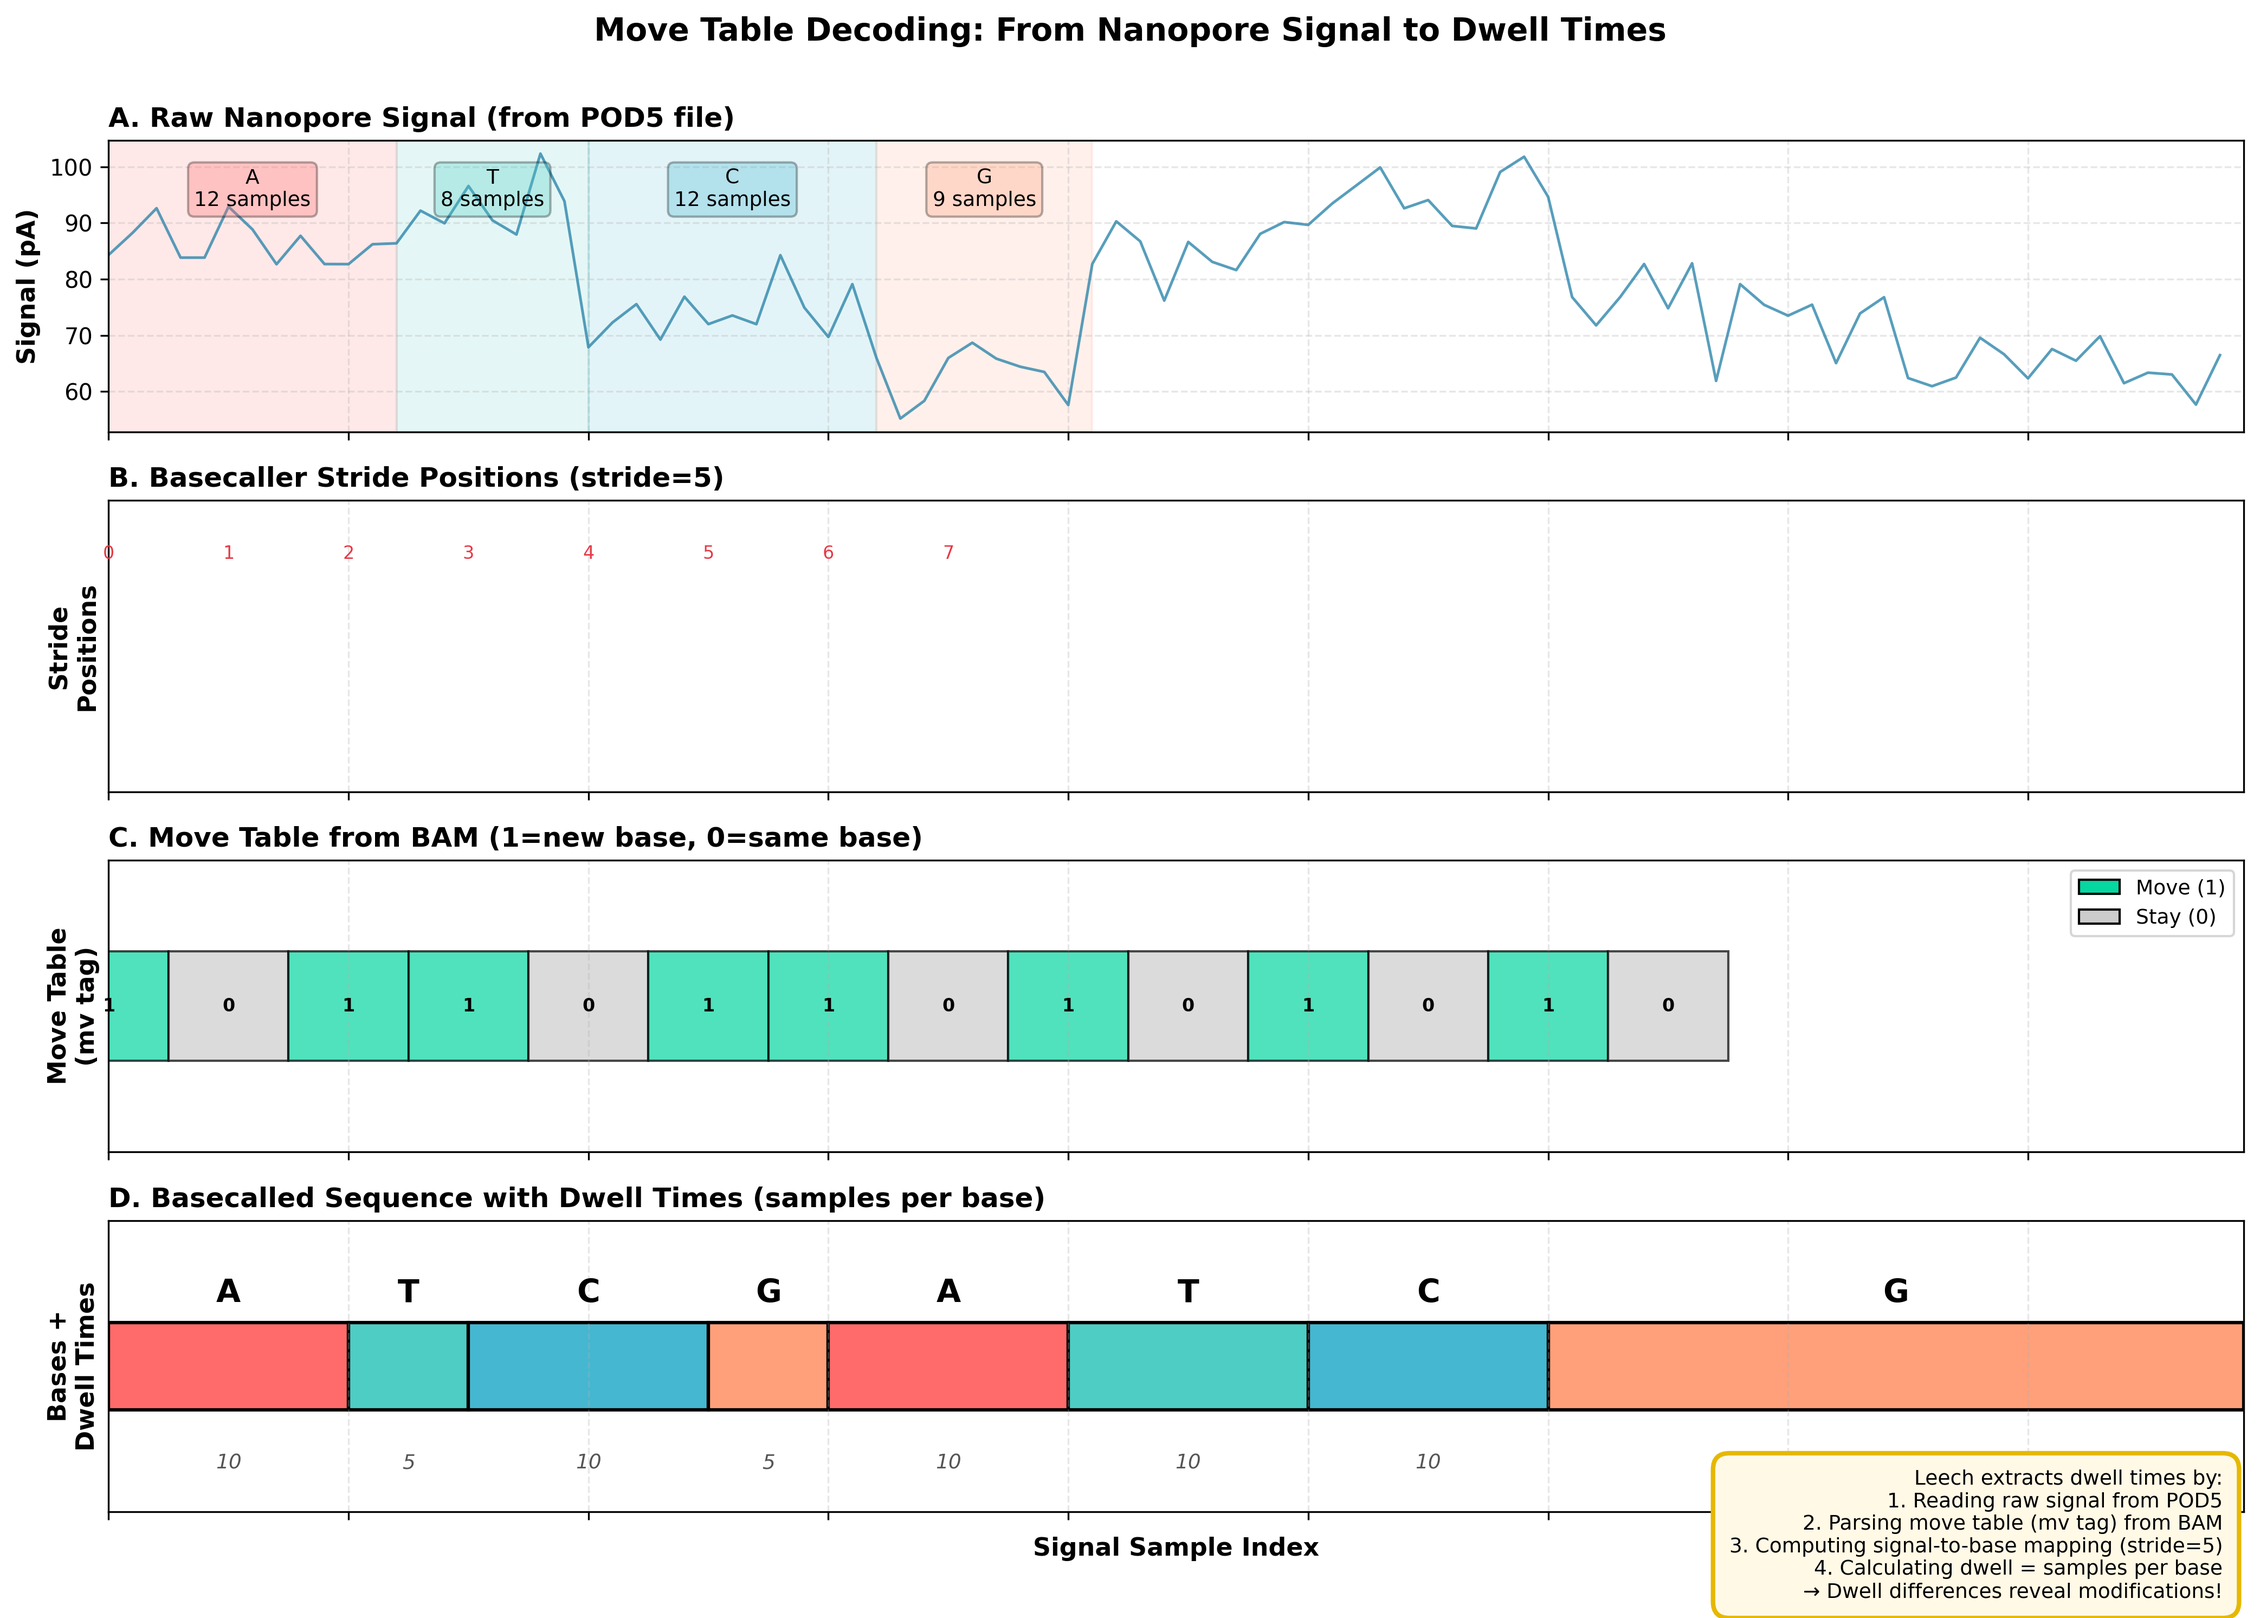
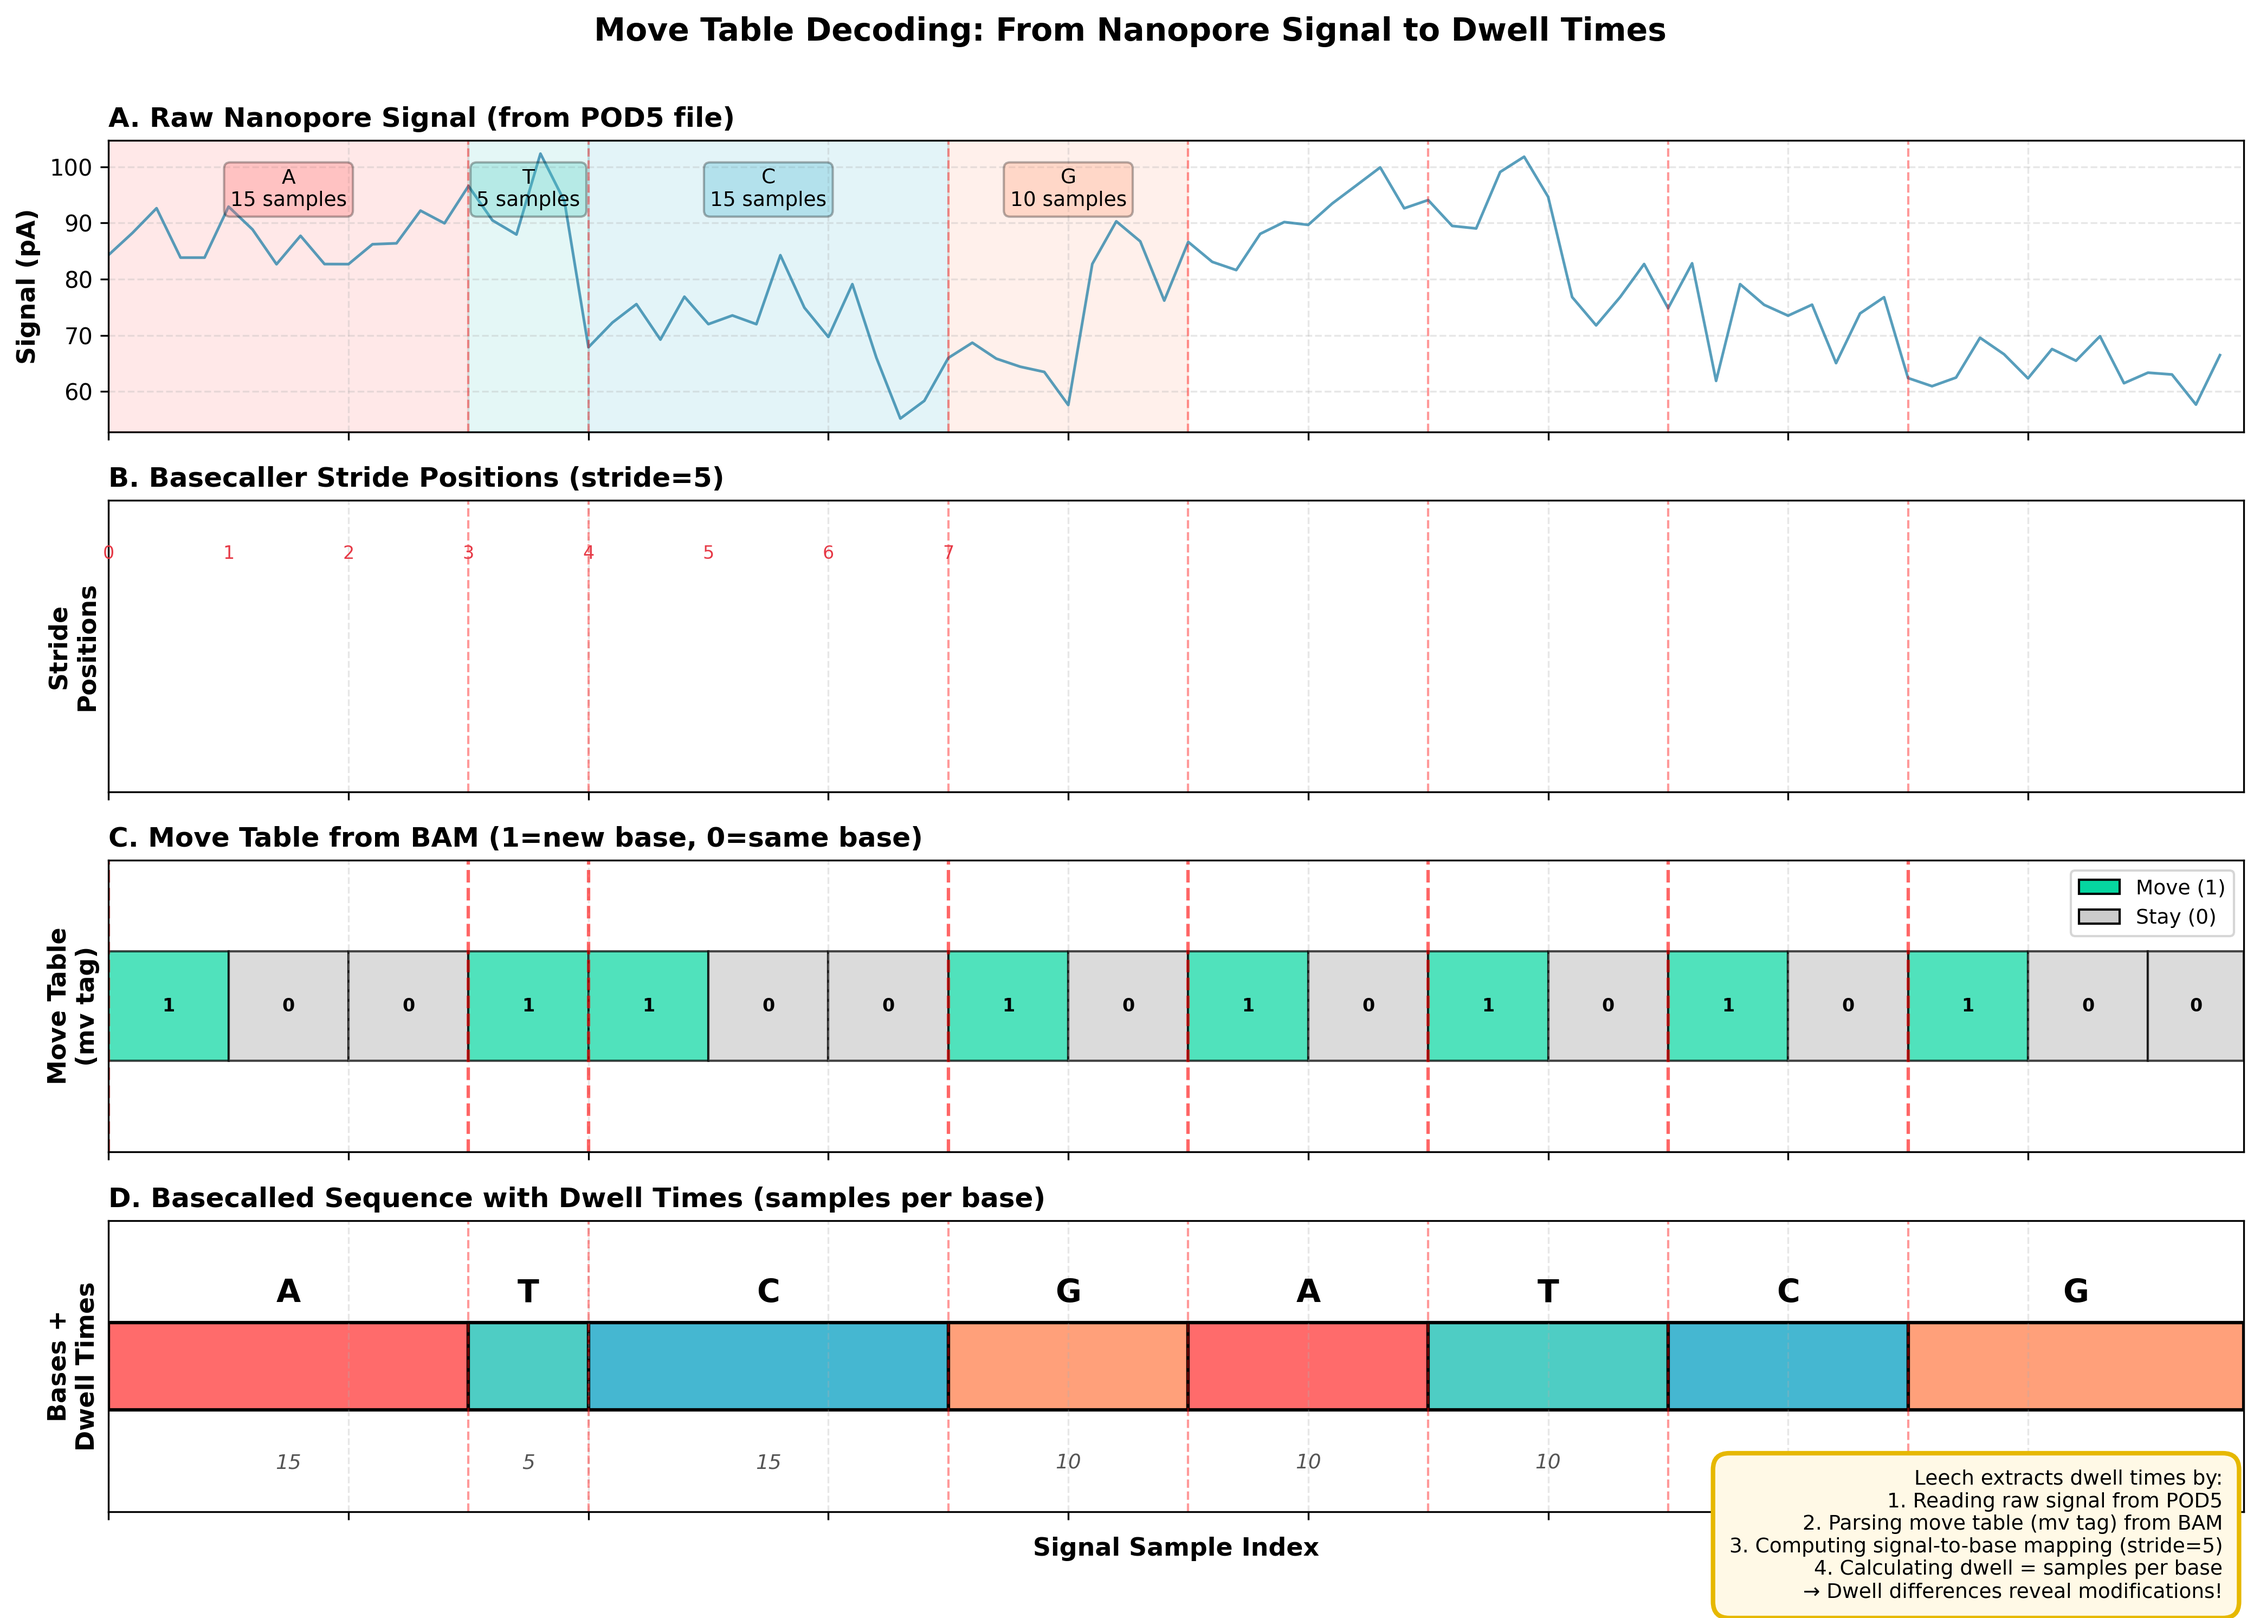
fix: align move table and stride panels to span full signal width
- Use reconstructed dwells consistently across all panels for proper alignment
- Extend last move table box to signal end instead of stride boundary
- Add vertical red dashed lines at base boundaries across all panels
- Include final stride position marker if signal doesn't end on stride boundary

This ensures that base transitions align vertically across all four panels
and that the move table and stride visualizations span the entire x-axis.

diff --git a/scripts/generate_move_table_figure.py b/scripts/generate_move_table_figure.py
@@ -130,10 +130,11 @@ def create_figure(output_path: Path):
     ax1.grid(True, alpha=0.3, linestyle="--")
     ax1.set_xticklabels([])
 
-    # Annotate signal regions for first few bases
+    # Annotate signal regions for first few bases using reconstructed dwells
+    # (to ensure alignment with move table and Panel D)
     colors = ["#FF6B6B", "#4ECDC4", "#45B7D1", "#FFA07A"]
     cumsum_pos = 0
-    for i, (base, dwell) in enumerate(zip(sequence[:4], true_dwells[:4])):
+    for i, (base, dwell) in enumerate(zip(sequence[:4], reconstructed_dwells[:4])):
         ax1.axvspan(cumsum_pos, cumsum_pos + dwell, alpha=0.15, color=colors[i % len(colors)])
         ax1.text(
             cumsum_pos + dwell / 2,
@@ -146,9 +147,19 @@ def create_figure(output_path: Path):
         )
         cumsum_pos += dwell
 
+    # Add vertical lines at base boundaries
+    for pos in base_positions[:-1]:
+        ax1.axvline(pos, color="red", linestyle="--", linewidth=1, alpha=0.4)
+
     # === Panel B: Stride Positions ===
     ax2 = plt.subplot(4, 1, 2, sharex=ax1)
-    ax2.eventplot(stride_positions, colors="#E63946", linewidths=1.5)
+
+    # Include all stride positions up to and including the signal end
+    all_stride_positions = list(stride_positions)
+    if all_stride_positions[-1] < len(signal):
+        all_stride_positions.append(len(signal))
+
+    ax2.eventplot([all_stride_positions], colors="#E63946", linewidths=1.5)
     ax2.set_ylabel("Stride\nPositions", fontsize=11, fontweight="bold")
     ax2.set_title(
         f"B. Basecaller Stride Positions (stride={stride})",
@@ -162,9 +173,13 @@ def create_figure(output_path: Path):
     ax2.grid(True, alpha=0.3, linestyle="--", axis="x")
     ax2.set_xticklabels([])
 
-    # Annotate some stride positions
+    # Annotate some stride positions (excluding the final position if it's not on a stride boundary)
     for i, pos in enumerate(stride_positions[:8]):
         ax2.text(pos, 0.3, str(i), ha="center", fontsize=8, color="#E63946")
+
+    # Add vertical lines at base boundaries
+    for pos in base_positions[:-1]:
+        ax2.axvline(pos, color="red", linestyle="--", linewidth=1, alpha=0.4)
 
     # === Panel C: Move Table ===
     ax3 = plt.subplot(4, 1, 3, sharex=ax1)
@@ -174,9 +189,17 @@ def create_figure(output_path: Path):
     for i, move in enumerate(moves):
         pos = i * stride
         color = "#06D6A0" if move == 1 else "#CCCCCC"
+
+        # Calculate width: use stride for all boxes except the last one
+        # Last box extends to the end of the signal
+        if i == len(moves) - 1:
+            box_width = len(signal) - pos
+        else:
+            box_width = stride
+
         rect = patches.Rectangle(
             (pos, -box_height / 2),
-            stride,
+            box_width,
             box_height,
             linewidth=1,
             edgecolor="black",
@@ -188,7 +211,7 @@ def create_figure(output_path: Path):
         # Add move value text
         if i < 20:  # Only annotate first 20
             ax3.text(
-                pos + stride / 2,
+                pos + box_width / 2,
                 0,
                 str(move),
                 ha="center",
@@ -196,6 +219,10 @@ def create_figure(output_path: Path):
                 fontsize=8,
                 fontweight="bold",
             )
+
+    # Add vertical lines at base boundaries to show alignment
+    for pos in base_positions[:-1]:  # Exclude the last position (end of signal)
+        ax3.axvline(pos, color="red", linestyle="--", linewidth=1.5, alpha=0.6)
 
     ax3.set_ylabel("Move Table\n(mv tag)", fontsize=11, fontweight="bold")
     ax3.set_title(
@@ -255,6 +282,10 @@ def create_figure(output_path: Path):
         )
 
         cumsum_pos += dwell
+
+    # Add vertical lines at base boundaries
+    for pos in base_positions[:-1]:
+        ax4.axvline(pos, color="red", linestyle="--", linewidth=1, alpha=0.4)
 
     ax4.set_ylabel("Bases +\nDwell Times", fontsize=11, fontweight="bold")
     ax4.set_title(
